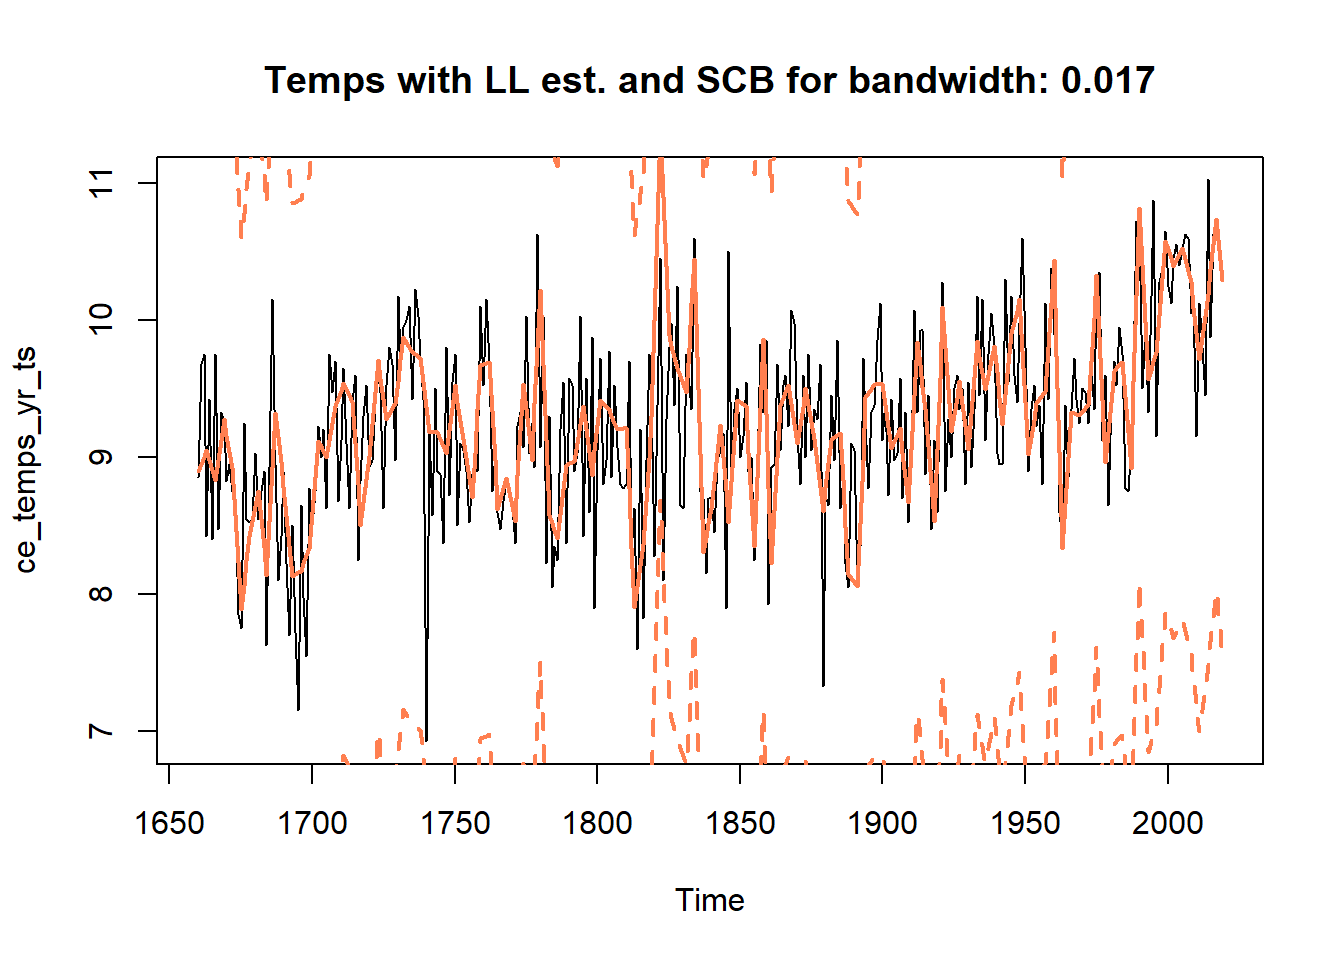
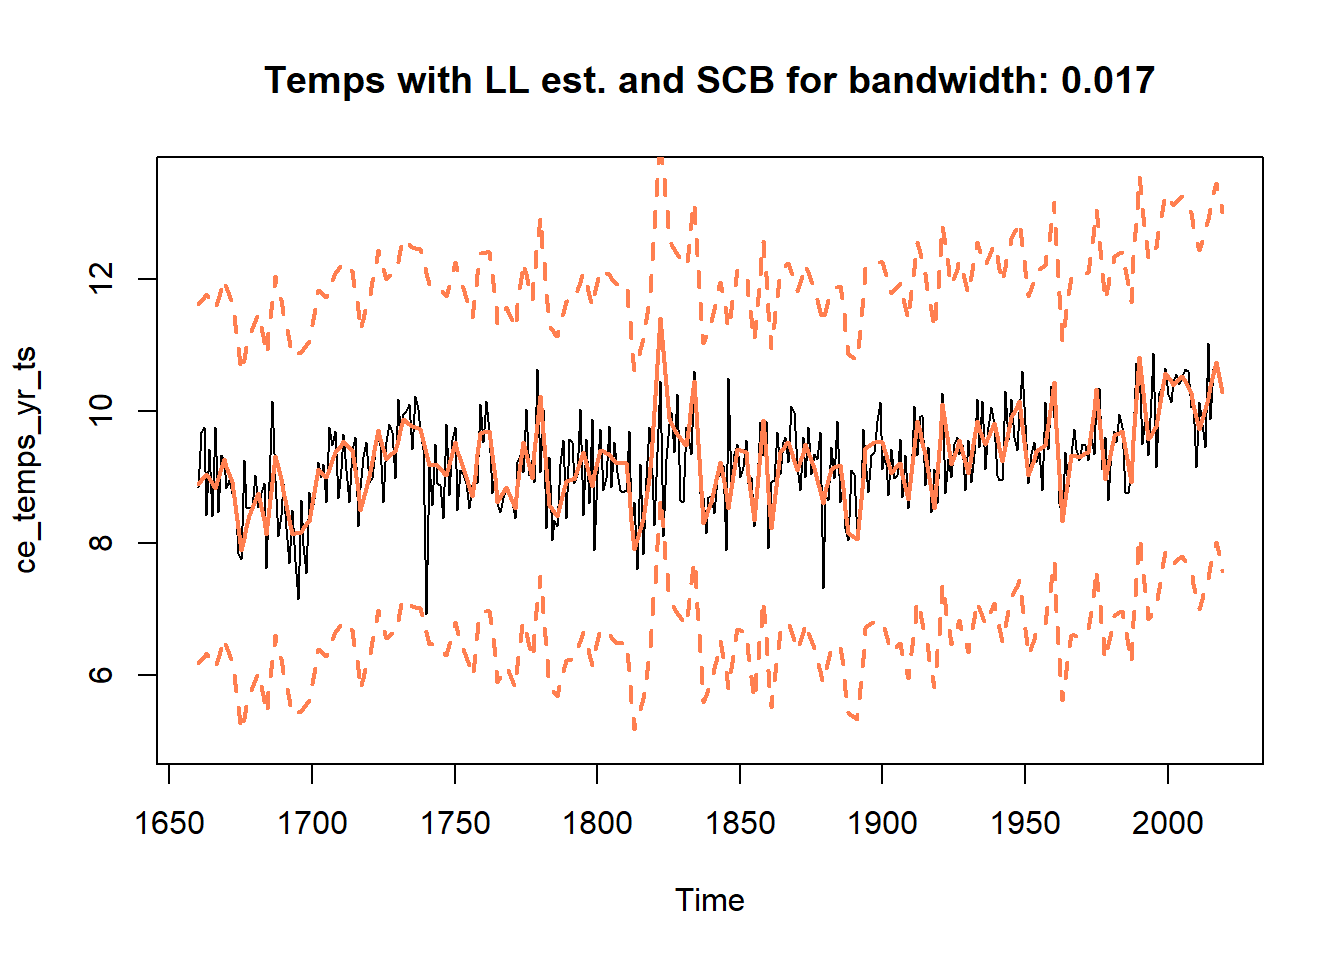
Build site.

diff --git a/docs/weather_data_analysis.html b/docs/weather_data_analysis.html
@@ -435,10 +435,10 @@ This reproducible <a href="http://rmarkdown.rstudio.com">R Markdown</a> analysis
 <div class="panel panel-default">
 <div class="panel-heading">
 <p class="panel-title">
-<a data-toggle="collapse" data-parent="#workflowr-checks" href="#strongRepositoryversionstrongahrefhttpsgithubcomacloudysun12SCBsExplorationtree0d6644f671362332d30027907d0cf6eb641609b9targetblank0d6644fa"> <span class="glyphicon glyphicon-ok text-success" aria-hidden="true"></span> <strong>Repository version:</strong> <a href="https://github.com/acloudysun12/SCBs_Exploration/tree/0d6644f671362332d30027907d0cf6eb641609b9" target="_blank">0d6644f</a> </a>
+<a data-toggle="collapse" data-parent="#workflowr-checks" href="#strongRepositoryversionstrongahrefhttpsgithubcomacloudysun12SCBsExplorationtree378da5eca70b48eb72fbb1f83bd833a2c5a9a187targetblank378da5ea"> <span class="glyphicon glyphicon-ok text-success" aria-hidden="true"></span> <strong>Repository version:</strong> <a href="https://github.com/acloudysun12/SCBs_Exploration/tree/378da5eca70b48eb72fbb1f83bd833a2c5a9a187" target="_blank">378da5e</a> </a>
 </p>
 </div>
[2 lines of base64/hex data omitted]
 <div class="panel-body">
 <p>
 Great! You are using Git for version control. Tracking code development and connecting the code version to the results is critical for reproducibility. The version displayed above was the version of the Git repository at the time these results were generated. <br><br> Note that you need to be careful to ensure that all relevant files for the analysis have been committed to Git prior to generating the results (you can use <code>wflow_publish</code> or <code>wflow_git_commit</code>). workflowr only checks the R Markdown file, but you know if there are other scripts or data files that it depends on. Below is the status of the Git repository when the results were generated:
@@ -482,6 +482,40 @@ Message
 </tr>
 </thead>
 <tbody>
+<tr>
+<td>
+Rmd
+</td>
+<td>
+<a href="https://github.com/acloudysun12/SCBs_Exploration/blob/378da5eca70b48eb72fbb1f83bd833a2c5a9a187/analysis/weather_data_analysis.Rmd" target="_blank">378da5e</a>
+</td>
+<td>
+Adam Sun
+</td>
+<td>
+2020-03-06
+</td>
+<td>
+initial analysis SCBs file
+</td>
+</tr>
+<tr>
+<td>
+html
+</td>
+<td>
+<a href="https://rawcdn.githack.com/acloudysun12/SCBs_Exploration/6c380590584ed76d07833dff3136f8bceea4cc23/docs/weather_data_analysis.html" target="_blank">6c38059</a>
+</td>
+<td>
+Adam Sun
+</td>
+<td>
+2020-03-06
+</td>
+<td>
+Build site.
+</td>
+</tr>
 <tr>
 <td>
 Rmd
@@ -928,7 +962,8 @@ temps_LB_4 = ce_temps_tilde_4 - interval_95_4</code></pre>
 <div id="plots-with-scbs" class="section level2">
 <h2>Plots with SCBs <br></h2>
 <p>Notes/Q’s: <br> - For each bandwidth tried, we plot time series, local linear estimates, and their SCBs.</p>
-<pre class="r"><code>plot(ce_temps_yr_ts, main = paste(&quot;Temps with LL est. and SCB for bandwidth:&quot;, round(b_final_0, 3)))
+<pre class="r"><code>plot(ce_temps_yr_ts, main = paste(&quot;Temps with LL est. and SCB for bandwidth:&quot;, round(b_final_0, 3)), 
+     ylim = c(5, 13.5))
 lines(as.numeric(years), ce_temps_tilde_0, lwd = 2, lty = 1, col = &quot;coral&quot;)
 lines(x = as.numeric(years), y = temps_UB_0, lwd = 2, lty = 2, col = &quot;coral&quot;)
 lines(x = as.numeric(years), y = temps_LB_0, lwd = 2, lty = 2, col = &quot;coral&quot;)</code></pre>
@@ -955,6 +990,17 @@ Date
 </tr>
 </thead>
 <tbody>
+<tr>
+<td>
+<a href="https://github.com/acloudysun12/SCBs_Exploration/blob/6c380590584ed76d07833dff3136f8bceea4cc23/docs/figure/weather_data_analysis.Rmd/unnamed-chunk-6-1.png" target="_blank">6c38059</a>
+</td>
+<td>
+Adam Sun
+</td>
+<td>
+2020-03-06
+</td>
+</tr>
 <tr>
 <td>
 <a href="https://github.com/acloudysun12/SCBs_Exploration/blob/cc3ac7c6857d5cce761d100dab3c767ecc86412e/docs/figure/weather_data_analysis.Rmd/unnamed-chunk-6-1.png" target="_blank">cc3ac7c</a>
@@ -999,6 +1045,17 @@ Date
 <tbody>
 <tr>
 <td>
+<a href="https://github.com/acloudysun12/SCBs_Exploration/blob/6c380590584ed76d07833dff3136f8bceea4cc23/docs/figure/weather_data_analysis.Rmd/unnamed-chunk-6-2.png" target="_blank">6c38059</a>
+</td>
+<td>
+Adam Sun
+</td>
+<td>
+2020-03-06
+</td>
+</tr>
+<tr>
+<td>
 <a href="https://github.com/acloudysun12/SCBs_Exploration/blob/cc3ac7c6857d5cce761d100dab3c767ecc86412e/docs/figure/weather_data_analysis.Rmd/unnamed-chunk-6-2.png" target="_blank">cc3ac7c</a>
 </td>
 <td>
@@ -1039,6 +1096,17 @@ Date
 </tr>
 </thead>
 <tbody>
+<tr>
+<td>
+<a href="https://github.com/acloudysun12/SCBs_Exploration/blob/6c380590584ed76d07833dff3136f8bceea4cc23/docs/figure/weather_data_analysis.Rmd/unnamed-chunk-6-3.png" target="_blank">6c38059</a>
+</td>
+<td>
+Adam Sun
+</td>
+<td>
+2020-03-06
+</td>
+</tr>
 <tr>
 <td>
 <a href="https://github.com/acloudysun12/SCBs_Exploration/blob/cc3ac7c6857d5cce761d100dab3c767ecc86412e/docs/figure/weather_data_analysis.Rmd/unnamed-chunk-6-3.png" target="_blank">cc3ac7c</a>
@@ -1083,6 +1151,17 @@ Date
 <tbody>
 <tr>
 <td>
+<a href="https://github.com/acloudysun12/SCBs_Exploration/blob/6c380590584ed76d07833dff3136f8bceea4cc23/docs/figure/weather_data_analysis.Rmd/unnamed-chunk-6-4.png" target="_blank">6c38059</a>
+</td>
+<td>
+Adam Sun
+</td>
+<td>
+2020-03-06
+</td>
+</tr>
+<tr>
+<td>
 <a href="https://github.com/acloudysun12/SCBs_Exploration/blob/cc3ac7c6857d5cce761d100dab3c767ecc86412e/docs/figure/weather_data_analysis.Rmd/unnamed-chunk-6-4.png" target="_blank">cc3ac7c</a>
 </td>
 <td>
@@ -1101,6 +1180,43 @@ lines(as.numeric(years), ce_temps_tilde_4, lwd = 2, lty = 1, col = &quot;coral&q
 lines(x = as.numeric(years), y = temps_UB_4, lwd = 2, lty = 2, col = &quot;coral&quot;)
 lines(x = as.numeric(years), y = temps_LB_4, lwd = 2, lty = 2, col = &quot;coral&quot;)</code></pre>
 <p><img src="figure/weather_data_analysis.Rmd/unnamed-chunk-6-5.png" width="672" style="display: block; margin: auto;" /></p>
+<p>
+<button type="button" class="btn btn-default btn-xs btn-workflowr btn-workflowr-fig" data-toggle="collapse" data-target="#fig-unnamed-chunk-6-5">
+Past versions of unnamed-chunk-6-5.png
+</button>
+</p>
+<div id="fig-unnamed-chunk-6-5" class="collapse">
+<div class="table-responsive">
+<table class="table table-condensed table-hover">
+<thead>
+<tr>
+<th>
+Version
+</th>
+<th>
+Author
+</th>
+<th>
+Date
+</th>
+</tr>
+</thead>
+<tbody>
+<tr>
+<td>
+<a href="https://github.com/acloudysun12/SCBs_Exploration/blob/6c380590584ed76d07833dff3136f8bceea4cc23/docs/figure/weather_data_analysis.Rmd/unnamed-chunk-6-5.png" target="_blank">6c38059</a>
+</td>
+<td>
+Adam Sun
+</td>
+<td>
+2020-03-06
+</td>
+</tr>
+</tbody>
+</table>
+</div>
+</div>
 <p><br></p>
 </div>
 <div id="estimating-gamma0-with-eq-25" class="section level2">
